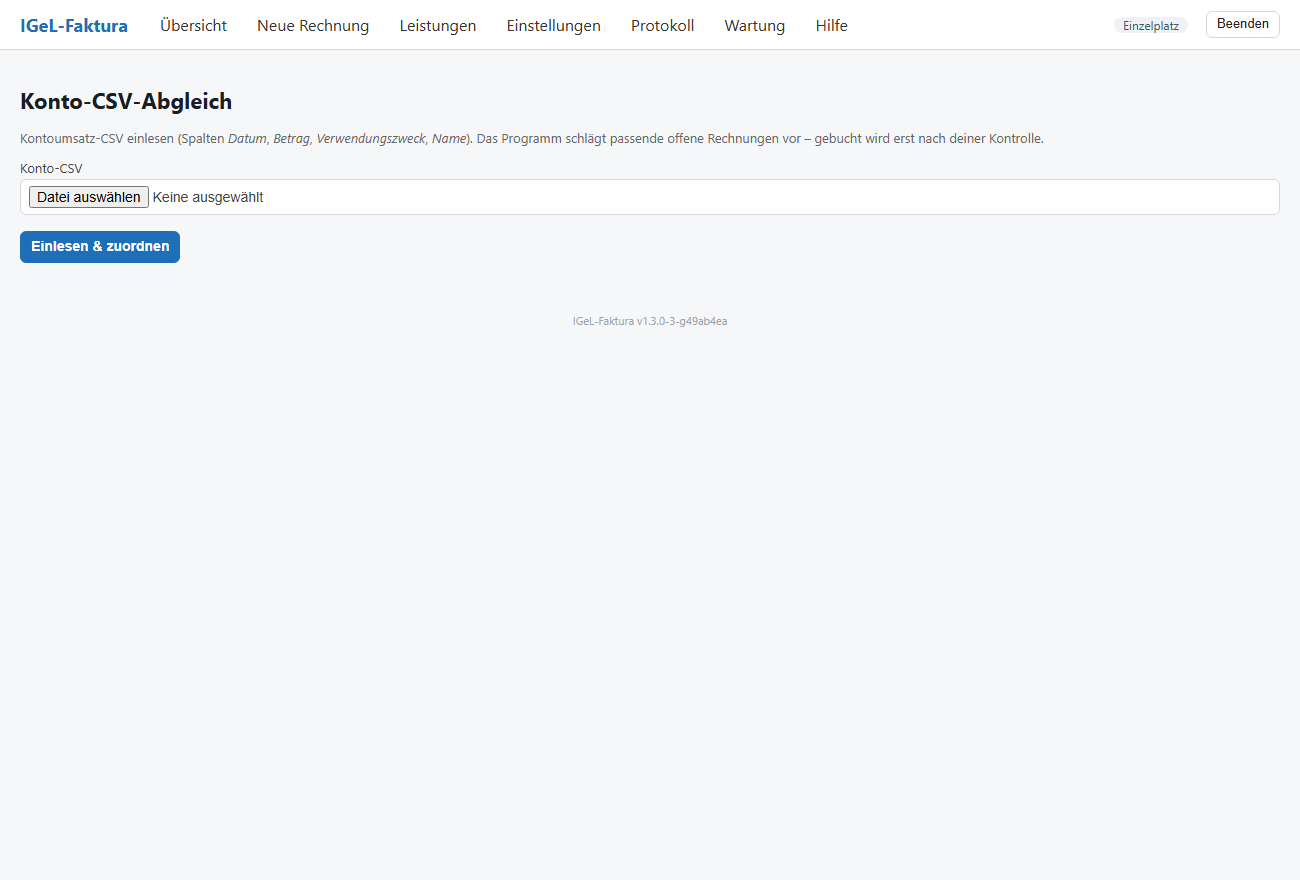
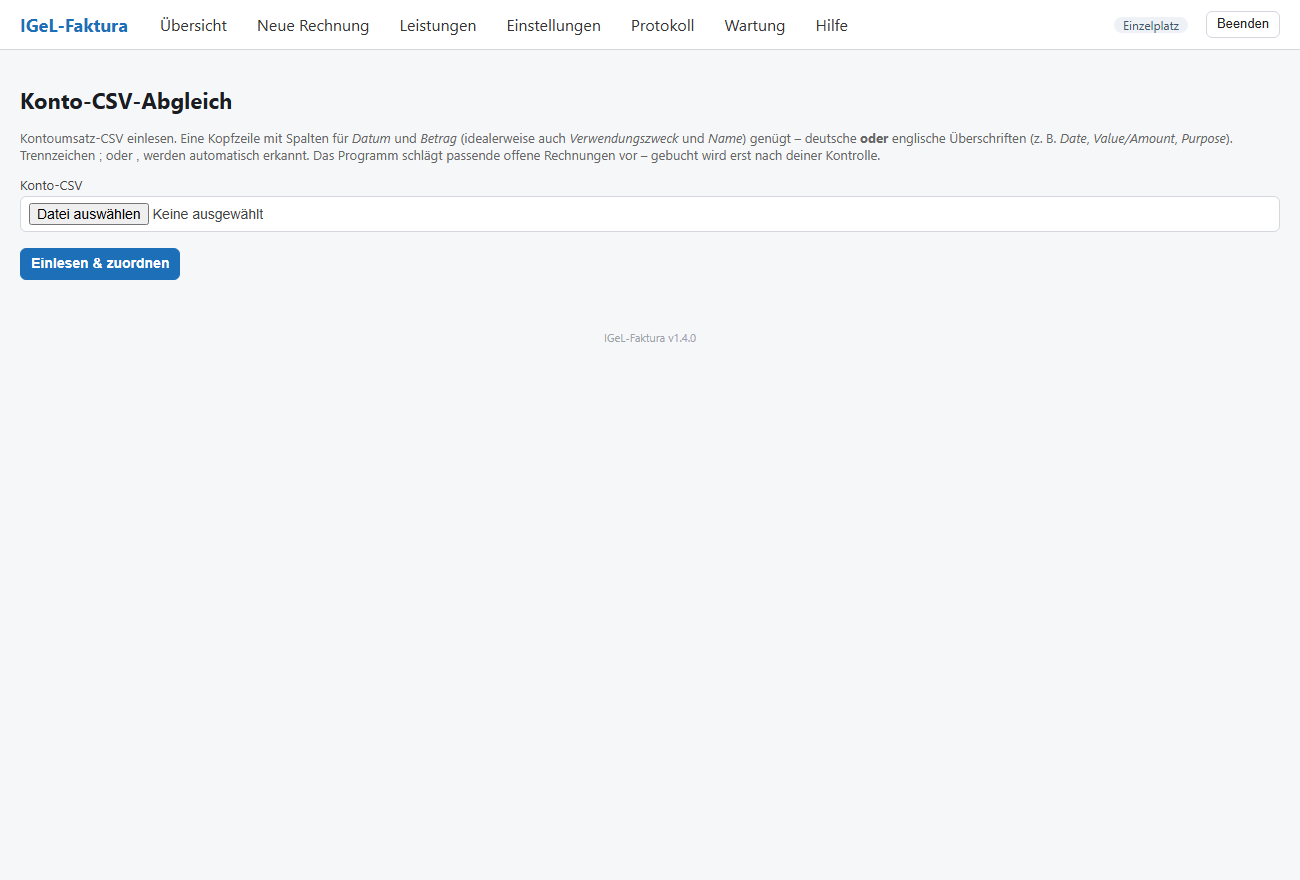
Release v1.4.0

Changed region(s): [[0.0, 0.1534, 0.9538, 0.3375], [0.4615, 0.3375, 0.5231, 0.3989], [0.5231, 0.3375, 0.5538, 0.3682]]

diff --git a/CHANGELOG.md b/CHANGELOG.md
@@ -2,6 +2,24 @@
 
 Alle nennenswerten Änderungen an IGeL-Faktura. Versionierung nach [SemVer](https://semver.org/lang/de/).
 
+## v1.4.0 – 2026-07-12
+
+### Konto-Abgleich
+- **Englische Spaltenüberschriften** werden erkannt (Date / Value / Amount / Purpose …) – der Bank-Export läuft ohne Umbenennen; bei 0 Treffern nennt eine klare Meldung die gefundenen Spalten.
+- **Farb-Ampel** je Zahlung: 🟢 über die Rechnungsnummer erkannt, 🟠 nur über Name + Betrag vermutet.
+- **Sammelüberweisungen:** stehen mehrere Rechnungsnummern im Verwendungszweck und die Summe passt, werden alle betroffenen Rechnungen zugeordnet und vorgehakt (z. B. wenn eine Mutter die Rechnungen mehrerer Kinder zusammen überweist).
+
+### Client/Server – Rollen & Bedienung
+- **Explizite Betriebsart** (Einzelplatz / Server / Arbeitsplatz), direkt im Programm über die native Menüleiste **„Dieser Arbeitsplatz"** wählbar – nicht mehr implizit über die Server-Adresse. Zurück auf Einzelplatz jederzeit möglich.
+- **Arbeitsplatz-Freigabe statt Schlüssel:** neue Arbeitsplätze werden am Server unter **„Arbeitsplätze"** freigegeben (einzeln oder zeitweise automatisch „zulassen"); jeder Arbeitsplatz merkt sich ein eigenes Geräte-Token. Kein Schlüssel mehr zum Abtippen.
+- **Native Menüleiste** am Fenster: die lokalen Einstellungen dieses PCs sind **immer** erreichbar – auch ohne Serververbindung. Das Client-Fenster zeigt klar „Arbeitsplatz · Server …".
+- **Automatisches Update:** ist der Server neuer, aktualisiert sich ein Arbeitsplatz beim Start auf Wunsch selbst vom Server – die lokalen Daten und Einstellungen bleiben erhalten.
+- Einstellungen und angezeigte Funktionen richten sich jetzt nach der Rolle: ein reiner **Server** zeigt keine Arbeitsplatz-Einstellungen (GDT/Drucker/Mahnungs-GDT) mehr, ein **Arbeitsplatz** verstellt nicht mehr versehentlich die Server-Konfiguration.
+
+### Behoben
+- Server-Start bricht nicht mehr an einem Sonderzeichen ab, wenn die Ausgabe umgeleitet ist (kein Fenster/Konsole).
+- **`--help`** erscheint jetzt als Fenster (die fensterlose App hat keine Konsole).
+
 ## v1.3.0 – 2026-07-10
 
 ### Neu

diff --git a/README.md b/README.md
@@ -23,9 +23,10 @@ IGeL-Faktura erstellt Privat-/IGeL-Rechnungen aus den Patientendaten von **T2med
 - **Zahlungserinnerungen** für überfällige Rechnungen (mit optionaler GDT-Datei für T2med).
 - **Leistungsmenü** mit Kategorien, Drag-&-Drop-Sortierung und CSV-Import.
 - **GOÄ-Katalog** – das amtliche Gebührenverzeichnis durchsuchen und Positionen mit einstellbarem Steigerungsfaktor als eigene Leistungen übernehmen.
-- **Konto-Abgleich** – Kontoumsatz-CSV einlesen, Zahlungseingänge automatisch offenen Rechnungen zuordnen und sammelweise als bezahlt buchen.
+- **Konto-Abgleich** – Kontoumsatz-CSV einlesen (deutsche **oder englische** Spaltenüberschriften), Zahlungseingänge automatisch zuordnen und sammelweise als bezahlt buchen. Farb-Ampel (🟢 über die Rechnungsnummer erkannt / 🟠 nur vermutet); eine Sammelüberweisung kann mehrere Rechnungen auf einmal begleichen.
 - **Verfahrensdokumentation (GoBD)** direkt im Programm – druck-/PDF-fähig, mit Praxisdaten vorausgefüllt (für Steuerberater / Betriebsprüfung).
-- **Ein- oder Mehrplatz**: Einzelplatz (alles auf einem PC) oder Client/Server (ein zentraler Server, mehrere Arbeitsplätze).
+- **Ein- oder Mehrplatz** mit klaren Rollen: **Einzelplatz**, **Server** oder **Arbeitsplatz** – direkt im Programm wählbar. Neue Arbeitsplätze werden am Server per Klick **freigegeben** (kein Schlüssel zum Abtippen).
+- **Automatisches Update** der Arbeitsplätze vom Server (die lokalen Daten bleiben erhalten).
 - **Automatische Datensicherung** (Tages-/Wochensicherungen) und eine Wartungsseite mit Integritätsprüfung.
 
 ## Download & Installation
